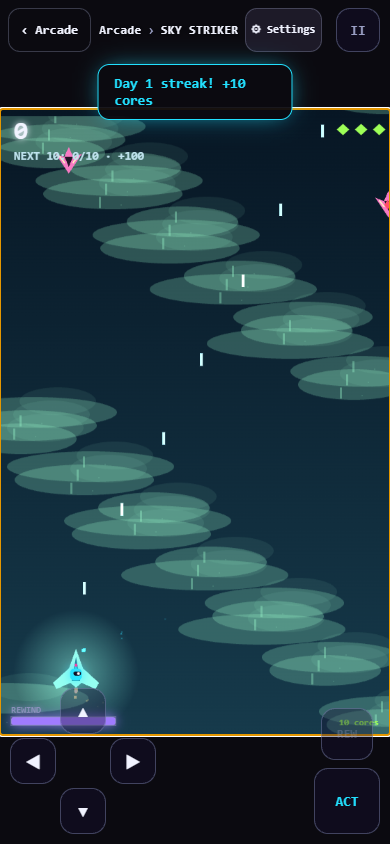
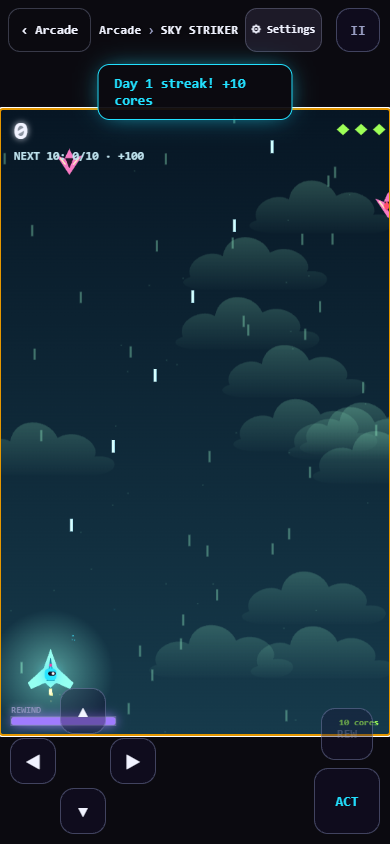
Give storm clouds organic silhouettes and quieter contrast

diff --git a/dist/forkade.html b/dist/forkade.html
@@ -1162,8 +1162,8 @@
       for(let l=0;l<3;l++){const c=document.createElement('canvas');c.width=w;c.height=h;const x=c.getContext('2d');
         if(l===0){const g=x.createLinearGradient(0,0,0,h);g.addColorStop(0,colors[0]);g.addColorStop(1,colors[1]);x.fillStyle=g;x.fillRect(0,0,w,h);}
         x.fillStyle=colors[2];x.globalAlpha=.12+l*.12;
-        for(let i=0;i<34;i++){const px=(i*173+l*71)%w,py=(i*137+l*53)%h;
-          if(l===1&&scene==='clouds'){x.beginPath();x.ellipse(px,py,80+(i%3)*20,22,0,0,TAU);x.fill();x.globalAlpha=.08;x.beginPath();x.ellipse(px+35,py-16,55,20,0,0,TAU);x.fill();x.globalAlpha=.24;}
+        for(let i=0;i<(scene==='clouds'&&l===1?12:34);i++){const px=scene==='clouds'?((Math.sin(i*127.1+l*311.7)*43758.5453)%1+1)%1*w:(i*173+l*71)%w,py=scene==='clouds'?((Math.sin(i*269.5+l*183.3)*28347.15)%1+1)%1*h:(i*137+l*53)%h;
+          if(l===1&&scene==='clouds'){x.save();x.translate(px,py);const g=x.createLinearGradient(0,-40,0,35);g.addColorStop(0,colors[2]+'55');g.addColorStop(1,colors[2]+'00');x.fillStyle=g;x.globalAlpha=.6;x.beginPath();x.moveTo(-90,12);x.bezierCurveTo(-100,-10,-65,-30,-44,-18);x.bezierCurveTo(-38,-55,12,-52,24,-23);x.bezierCurveTo(54,-40,87,-12,77,4);x.bezierCurveTo(115,0,115,28,80,30);x.lineTo(-66,30);x.bezierCurveTo(-100,30,-111,18,-90,12);x.fill();x.restore();}
           else if(l===1&&scene==='reactor'){x.strokeStyle=colors[2];x.lineWidth=2;x.beginPath();x.moveTo(px,py);x.lineTo(px+40,py);x.lineTo(px+40,py+55);x.stroke();x.beginPath();x.arc(px,py,10,0,TAU);x.stroke();}
           else if(l===1){x.beginPath();x.moveTo(px,py);x.lineTo(px+34,py-80-(i%4)*20);x.lineTo(px+68,py);x.fill();}
           else {x.fillRect(px,py,l===0?2:3,l===0?2:16);}}

diff --git a/web/download/forkade.html b/web/download/forkade.html
@@ -1162,8 +1162,8 @@
       for(let l=0;l<3;l++){const c=document.createElement('canvas');c.width=w;c.height=h;const x=c.getContext('2d');
         if(l===0){const g=x.createLinearGradient(0,0,0,h);g.addColorStop(0,colors[0]);g.addColorStop(1,colors[1]);x.fillStyle=g;x.fillRect(0,0,w,h);}
         x.fillStyle=colors[2];x.globalAlpha=.12+l*.12;
-        for(let i=0;i<34;i++){const px=(i*173+l*71)%w,py=(i*137+l*53)%h;
-          if(l===1&&scene==='clouds'){x.beginPath();x.ellipse(px,py,80+(i%3)*20,22,0,0,TAU);x.fill();x.globalAlpha=.08;x.beginPath();x.ellipse(px+35,py-16,55,20,0,0,TAU);x.fill();x.globalAlpha=.24;}
+        for(let i=0;i<(scene==='clouds'&&l===1?12:34);i++){const px=scene==='clouds'?((Math.sin(i*127.1+l*311.7)*43758.5453)%1+1)%1*w:(i*173+l*71)%w,py=scene==='clouds'?((Math.sin(i*269.5+l*183.3)*28347.15)%1+1)%1*h:(i*137+l*53)%h;
+          if(l===1&&scene==='clouds'){x.save();x.translate(px,py);const g=x.createLinearGradient(0,-40,0,35);g.addColorStop(0,colors[2]+'55');g.addColorStop(1,colors[2]+'00');x.fillStyle=g;x.globalAlpha=.6;x.beginPath();x.moveTo(-90,12);x.bezierCurveTo(-100,-10,-65,-30,-44,-18);x.bezierCurveTo(-38,-55,12,-52,24,-23);x.bezierCurveTo(54,-40,87,-12,77,4);x.bezierCurveTo(115,0,115,28,80,30);x.lineTo(-66,30);x.bezierCurveTo(-100,30,-111,18,-90,12);x.fill();x.restore();}
           else if(l===1&&scene==='reactor'){x.strokeStyle=colors[2];x.lineWidth=2;x.beginPath();x.moveTo(px,py);x.lineTo(px+40,py);x.lineTo(px+40,py+55);x.stroke();x.beginPath();x.arc(px,py,10,0,TAU);x.stroke();}
           else if(l===1){x.beginPath();x.moveTo(px,py);x.lineTo(px+34,py-80-(i%4)*20);x.lineTo(px+68,py);x.fill();}
           else {x.fillRect(px,py,l===0?2:3,l===0?2:16);}}

diff --git a/web/engine.js b/web/engine.js
@@ -533,8 +533,8 @@
       for(let l=0;l<3;l++){const c=document.createElement('canvas');c.width=w;c.height=h;const x=c.getContext('2d');
         if(l===0){const g=x.createLinearGradient(0,0,0,h);g.addColorStop(0,colors[0]);g.addColorStop(1,colors[1]);x.fillStyle=g;x.fillRect(0,0,w,h);}
         x.fillStyle=colors[2];x.globalAlpha=.12+l*.12;
-        for(let i=0;i<34;i++){const px=(i*173+l*71)%w,py=(i*137+l*53)%h;
-          if(l===1&&scene==='clouds'){x.beginPath();x.ellipse(px,py,80+(i%3)*20,22,0,0,TAU);x.fill();x.globalAlpha=.08;x.beginPath();x.ellipse(px+35,py-16,55,20,0,0,TAU);x.fill();x.globalAlpha=.24;}
+        for(let i=0;i<(scene==='clouds'&&l===1?12:34);i++){const px=scene==='clouds'?((Math.sin(i*127.1+l*311.7)*43758.5453)%1+1)%1*w:(i*173+l*71)%w,py=scene==='clouds'?((Math.sin(i*269.5+l*183.3)*28347.15)%1+1)%1*h:(i*137+l*53)%h;
+          if(l===1&&scene==='clouds'){x.save();x.translate(px,py);const g=x.createLinearGradient(0,-40,0,35);g.addColorStop(0,colors[2]+'55');g.addColorStop(1,colors[2]+'00');x.fillStyle=g;x.globalAlpha=.6;x.beginPath();x.moveTo(-90,12);x.bezierCurveTo(-100,-10,-65,-30,-44,-18);x.bezierCurveTo(-38,-55,12,-52,24,-23);x.bezierCurveTo(54,-40,87,-12,77,4);x.bezierCurveTo(115,0,115,28,80,30);x.lineTo(-66,30);x.bezierCurveTo(-100,30,-111,18,-90,12);x.fill();x.restore();}
           else if(l===1&&scene==='reactor'){x.strokeStyle=colors[2];x.lineWidth=2;x.beginPath();x.moveTo(px,py);x.lineTo(px+40,py);x.lineTo(px+40,py+55);x.stroke();x.beginPath();x.arc(px,py,10,0,TAU);x.stroke();}
           else if(l===1){x.beginPath();x.moveTo(px,py);x.lineTo(px+34,py-80-(i%4)*20);x.lineTo(px+68,py);x.fill();}
           else {x.fillRect(px,py,l===0?2:3,l===0?2:16);}}

diff --git a/docs/game-upgrades/striker/README.md b/docs/game-upgrades/striker/README.md
@@ -4,7 +4,7 @@ Three cached storm-cloud layers, a shaped/leaning fighter, exhaust trail, shaped
 
 Catch an eight-second spread-shot cell every fifth kill. Ten ships pay +100; each dangerous near miss pays +5 once and triggers a brief reduced-motion-aware slowdown. Carrier defeat pays +300 and restores one hull with five seconds of protection. End-of-run stats use actual kills/grazes/combo and distance to the real local best. Music has its own key, tempo and instrument through the master gain.
 
-Snapshot/restore now includes weapon/spawn timers, invulnerability, pickup timers, boss deadline and per-projectile graze flags. CPU render timing 0.035ms → 0.065ms; full-frame sample ~0.285ms at 390×844. Source 4.83 → 9.25 KiB. Measurements are headless desktop CPU command-submission timings, not physical-phone/GPU guarantees. 30 simulated seconds, identical seed replay, approximately three seconds of rewind, boss spawn and power/timer restoration pass.
+Snapshot/restore now includes weapon/spawn timers, invulnerability, pickup timers, boss deadline and per-projectile graze flags. CPU render timing 0.035ms → 0.089ms; full-frame sample ~0.285ms at 390×844. Source 4.83 → 9.25 KiB. Measurements are headless desktop CPU command-submission timings, not physical-phone/GPU guarantees. 30 simulated seconds, identical seed replay, approximately three seconds of rewind, boss spawn and power/timer restoration pass.
 
 Badge tiers 400/1400/3500; server cap raised to 600,000 for long bonus-rich runs, rate limit remains 500 points/second. Old ranking entries remain untouched. Projectile/enemy/pickup bounds and the shared 240-particle pool limit work.
 
@@ -16,3 +16,4 @@ UX §22: portrait readability, existing 44px controls, one-tap replay, truthful 
 ![1280](desktop-1280.png)
 
 12-second before/after clip: `C:\Users\Younes\Desktop\shared process\forkade-games-before-after\striker.gif`.
+
